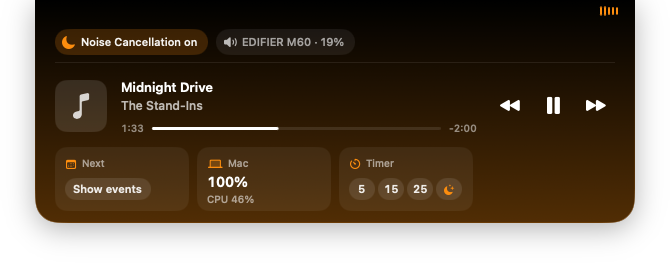
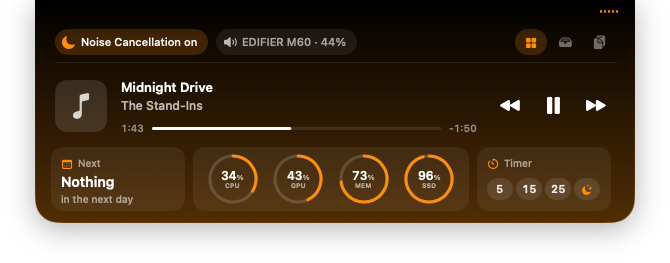
Bring the docs up to date: README privacy, permissions, how it works, file table and hover screenshots; development notes and changelog

diff --git a/NotchANC/Glance.swift b/NotchANC/Glance.swift
@@ -1,5 +1,5 @@
-// What the card's tiles show: the headphones' battery, the next calendar event, and how busy the Mac is
-// (processor, graphics, memory, disk). Read only while a pill is open.
+// What the card reads from the system: the headphones' battery for the output chip, and for the tiles the next
+// calendar event and how busy the Mac is (processor, graphics, memory, disk). Read only while a pill is open.
 
 import EventKit
 import Foundation

diff --git a/README.md b/README.md
@@ -6,7 +6,7 @@
 
 <p align="center">
   See at a glance when your AirPods are blocking out the world.<br>
-  A small pill around your MacBook's notch or Dynamic Island, plus what's playing.
+  A small pill around your MacBook's notch or Dynamic Island, with what's playing and a card of things worth a glance.
 </p>
 
 <p align="center">
@@ -24,10 +24,10 @@ When your AirPods switch to **Noise Cancellation**, a black pill appears around 
   <img src="docs/images/notch-collapsed.png" width="324" alt="The collapsed pill beside the notch: the playing app's icon on the left, the visualizer on the right">
 </p>
 
-Hover it and it opens into one card. On top, the listening mode and where sound is going. Then the player: the playing app's icon, the title and artist, a progress bar, and previous, play/pause and next. Under it, tiles worth a glance: your next event, how busy the Mac is, a quick timer. The pill's icons travel into the card, so the two read as one piece.
+Hover it and it opens into one card. On top, the listening mode and where sound is going. Then the player: the playing app's icon, the title and artist, a progress bar, and previous, play/pause and next. Under it, tiles worth a glance: your next event, how busy the Mac is, a quick timer. Tabs on the right switch to a shelf for files and to your recent copies. The pill's icons travel into the card, so the two read as one piece.
 
 <p align="center">
-  <img src="docs/images/notch-hover.png" width="671" alt="The hovered pill: Noise Cancellation on and the output device, the player showing Midnight Drive, and tiles for the next event, the Mac and a timer">
+  <img src="docs/images/notch-hover.png" width="671" alt="The hovered pill: Noise Cancellation on, the output device and three tabs; the player showing Midnight Drive; tiles for the next event, four rings for the Mac, and a timer">
 </p>
 
 On displays without a notch, such as an external monitor, the pill sits centred in the menu bar with the track's name, as wide as it needs. Hovering opens the same card.
@@ -35,12 +35,12 @@ On displays without a notch, such as an external monitor, the pill sits centred 
 <p align="center">
   <img src="docs/images/display-anc.png" width="271" alt="Pill on an external display showing Midnight Drive — The Stand-Ins">
   <br>
-  <img src="docs/images/display-hover.png" width="670" alt="The same pill while hovered: the card with status, player and tiles">
+  <img src="docs/images/display-hover.png" width="670" alt="The same pill while hovered: the card with status, tabs, player and tiles">
 </p>
 
 ### Features
 
-- **Automatic.** NotchANC follows your AirPods' listening mode with no setup and nothing to pair.
+- **Automatic.** NotchANC follows your AirPods' listening mode with no setup and nothing to pair. The card names the mode you're in: Noise Cancellation, Transparency or Adaptive.
 - **Now Playing.** Shows the track from any app: music, videos in a browser, podcasts. Hover to open a card with the status (Noise Cancellation, where sound is going) and the player: pause, skip or go back. The status row also shows your headphones' battery. Tiles under the player show your next calendar event and how busy the Mac is (processor, graphics, memory, disk), and start a quick timer or a focus session. Two more tabs hold a shelf for files you drag onto the pill and the last things you copied. Click the track to jump to the app, or the browser tab, that's playing it.
 - **A live visualizer.** The bars beside the notch move with the sound that's playing.
 - **Media without ANC.** With Noise Cancellation off, the pill takes the Now Playing colour and shows the playing app's icon while audio plays through headphones (AirPods, any Bluetooth headset, or the headphone jack). In Settings › Pill, choose instead to show it for sound from any output, to keep it always visible, or to never show it.
@@ -63,6 +63,7 @@ On displays without a notch, such as an external monitor, the pill sits centred 
 4. Allow **Bluetooth** access when macOS asks. NotchANC uses it only to notice when your headphones disconnect.
 5. Allow **System Audio Recording** when macOS asks. NotchANC uses it only to move the visualizer while something plays. The sound stays on your Mac and is never recorded.
 6. The first time you click a track playing in a browser, allow NotchANC to control that browser. It only switches to the playing tab.
+7. To see your next event in the card, press **Show events** on its tile and allow **Calendar** access. NotchANC only reads it, and never asks unless you press that button.
 
 The app is signed with a Developer ID and notarized by Apple, so it opens without Gatekeeper warnings. It checks GitHub for updates and installs them from **Check for Updates…**.
 
@@ -75,7 +76,11 @@ macOS has no public API for any of this, so NotchANC combines what the system al
 | Is Noise Cancellation on? | The Bluetooth daemon logs every listening-mode change, for example `LsnM ANC`. NotchANC reads it with Apple's `log` tool: the last 30 minutes at launch, then a live stream. |
 | What's playing? | macOS 15.4 and later only let Apple's own processes read Now Playing. NotchANC asks Apple's `osascript` to read it once a second and report only changes, and to send play/pause, next and previous. Clicking the track asks the browser over AppleScript for the tab whose title holds it. |
 | How loud is it? | A Core Audio process tap hears the Mac's output while the pill shows something playing. NotchANC splits it into five frequency bands for the bars and keeps nothing. |
-| Are headphones in use? | Core Audio reports whether the current output is Bluetooth or the headphone jack, and notifies when that changes. |
+| Where is sound going? | Core Audio reports the current output's name and volume, whether it is Bluetooth or the headphone jack, and notifies when any of that changes. |
+| How charged are the headphones? | No API gives AirPods battery levels, so NotchANC reads them from the Bluetooth section of Apple's `system_profiler` report while the card is open. |
+| How busy is the Mac? | The kernel reports processor and memory use and the startup disk reports its space. Graphics use comes from the figures the graphics driver publishes in the I/O Registry. |
+| What's next on the calendar? | EventKit, for the next timed event in the coming day, once you have allowed it. |
+| What was copied? | The pasteboard has no change notice, so NotchANC checks its counter twice a second and keeps the last ten texts in memory. |
 | Where's the notch or island? | `NSScreen` reports the camera cutout as a top safe-area inset plus the free areas to its left and right. The pill hugs whatever gap they leave, so it fits notches and the Dynamic Island alike. |
 
 The pill is a borderless, non-activating window at menu bar level. It ignores the mouse unless the pointer is on it, so you can still use the menu bar underneath.
@@ -86,7 +91,11 @@ These sources are undocumented and may change with a macOS update. If one stops 
 
 - Everything stays on your Mac. NotchANC has no analytics, no accounts and no servers.
 - Its only network traffic is the update check, which fetches [`appcast.xml`](appcast.xml) from this repository.
-- It reads only the Bluetooth daemon's listening-mode lines from the system log, and the title and artist of what's playing. It stores nothing but your settings.
+- From the system it reads the Bluetooth daemon's listening-mode lines in the log, the title and artist of what's playing, your headphones' battery level, how busy the Mac is, and, only if you allow it, your next calendar event.
+- The clipboard history holds the last ten texts you copied, in memory only: it is gone when NotchANC quits, and anything a password manager marks as secret is never kept. Turn it off in Settings › Card.
+- The shelf remembers the paths of the files you dropped on it, nothing of their contents.
+- A focus session runs a Shortcut only if you picked one in Settings › Focus.
+- It stores nothing but your settings and the shelf's paths.
 
 ## Scripting
 
@@ -112,10 +121,15 @@ open NotchANC.xcodeproj                                          # or build and 
 | Path | What's in it |
 |---|---|
 | `NotchANC/App.swift` | Menu bar item, menu, and the logic that decides when the pill shows |
-| `NotchANC/Overlay.swift` | Pill layout (unit-tested) and drawing, hover and animation |
+| `NotchANC/Overlay.swift` | Pill layout (unit-tested), the pill and its card, hover and animation |
 | `NotchANC/AirPodsMonitor.swift` | Reads the listening mode from the system log |
 | `NotchANC/NowPlaying.swift` | Reads Now Playing through `osascript` |
-| `NotchANC/AudioOutput.swift` | Watches whether sound goes to headphones |
+| `NotchANC/AudioOutput.swift` | Watches where sound goes: the device, its volume, headphones or not |
+| `NotchANC/AudioTap.swift` | Hears the Mac's output for the visualizer |
+| `NotchANC/Glance.swift` | Reads headphone battery, the next event and how busy the Mac is |
+| `NotchANC/Countdown.swift` | The quick timer and the focus session |
+| `NotchANC/Shelf.swift` | Files parked on the pill |
+| `NotchANC/Clipboard.swift` | The recent copies |
 | `NotchANC/Settings.swift` | The Settings window |
 | `tools/icon.swift` | Draws the app icon |
 | `tools/release.sh` | Builds, signs, notarizes and publishes a release |

diff --git a/docs/development.md b/docs/development.md
@@ -6,15 +6,15 @@ How the parts fit, and the facts that are easy to get wrong. The README covers w
 
 - `NotchANC/App.swift`: menu, Sparkle, and `apply()`, which reacts to every UserDefaults change (keys `automatic`, `mediaVisibility`, `focusMinutes`, `focusStartShortcut`, `focusEndShortcut`, `shelf`, the three timer lengths in `Countdown.presetKeys`, one on/off key per `CardPart` (tiles and tabs), `menuBarIcon`, `hiddenDisplays`, `hideMenuBarIcon`, and per `PillMode` its `colorKey` hex and `iconKey` symbol). Reopening the app shows Settings.
 - `NotchANC/Settings.swift`: the Settings window, a fixed-size `NavigationSplitView`: a sidebar of panes (General, Pill, Card, Focus, About) beside grouped SwiftUI forms that write UserDefaults directly. The card reads the same keys through `@AppStorage`, so a change shows at once.
-- `NotchANC/Overlay.swift`: `PillLayout` (pure geometry, unit-tested) and one window per shown display. The window has the open card's size; only the pill view inside animates. Collapsed, the pill holds the playing app's icon (the state's icon with no track) and the visualizer, or a pause mark; without a cutout the track's text sits between and the bar hugs it. Hovering opens one card: status chips (Noise Cancellation on or off, or the headphones' other mode when the log names it; the output device, its volume and, for headphones, their battery), the player when a track is loaded, and a row of tiles. Three tabs at the right of the chips switch the card between that, the file shelf and the clipboard history; every opening starts on the first. Each tab makes the card only as tall as its content (`Pill.card`), and an empty shelf or clipboard shows a dashed box that says what it is for. The pill is black at the top and washed in the state's colour below. Hover uses mouse-moved event monitors. The window (a non-activating `NSPanel`) ignores clicks except while the pointer is on the pill, so right-click opens the status menu without stealing focus.
+- `NotchANC/Overlay.swift`: `PillLayout` (pure geometry, unit-tested) and one window per shown display. The window has the open card's size; only the pill view inside animates. Collapsed, the pill holds the playing app's icon (the state's icon with no track) and the visualizer, or a pause mark; without a cutout the track's text sits between and the bar hugs it. Hovering opens one card: status chips (Noise Cancellation on or off, or the headphones' other mode when the log names it; the output device, its volume and, for headphones, their battery), the player when a track is loaded, and a row of tiles. Three tabs at the right of the chips switch the card between that, the file shelf and the clipboard history; every opening starts on the first, except that carrying files to the pill opens it on the shelf. Each tab makes the card only as tall as its content (`Pill.card`), and an empty shelf or clipboard shows a dashed box that says what it is for. The pill is black at the top and washed in the state's colour below. Hover uses mouse-moved and drag event monitors. The window (a non-activating `NSPanel`) ignores clicks except while the pointer is on the pill, so right-click opens the status menu without stealing focus.
 - `NotchANC/AudioTap.swift`: the visualizer's levels. A Core Audio process tap of the whole output feeds a private aggregate device; each 1024-sample block is split into five log bands, and each bar rests at half height on its band's running average. It runs only while a shown pill has something playing.
 - `NotchANC/AudioOutput.swift`: the default output device's name, volume and whether it is headphones; the pill's output chip and the "With headphones" choice both read it.
-- `NotchANC/Glance.swift`: the tiles' readings, taken only while a pill is open: headphone battery from `system_profiler SPBluetoothDataType -json` (no public API has it), the next calendar event from EventKit (asked for from the tile's own button, never at launch), and how busy the Mac is, drawn as four rings: processor load and memory from `host_statistics`, graphics load from the graphics driver's `PerformanceStatistics` entry in the I/O Registry (no public API has it), disk from the startup volume's capacity.
+- `NotchANC/Glance.swift`: the card's readings, taken only while a pill is open: headphone battery from `system_profiler SPBluetoothDataType -json` (no public API has it), the next calendar event from EventKit (asked for from the tile's own button, never at launch), and how busy the Mac is, drawn as four rings: processor load and memory from `host_statistics`, graphics load from the graphics driver's `PerformanceStatistics` entry in the I/O Registry (no public API has it), disk from the startup volume's capacity.
 - `NotchANC/Countdown.swift`: the quick timer and the focus session, one countdown at a time, started from the card's Timer tile. While it runs the pill stays up and its right end shows the time left, in place of the visualizer if something is playing; at the end it plays a sound and shows a bell until the card is opened. A focus session also runs the Shortcuts picked in Settings (`/usr/bin/shortcuts run`) when it starts and when it ends, since macOS has no API to switch Focus.
 - `NotchANC/Shelf.swift`: files parked on the pill, kept by path in UserDefaults; the files stay where they are. A drag that carries files opens the pill on the shelf tab (the hover monitors also watch drags), and the pill view takes the drop.
 - `NotchANC/Clipboard.swift`: the last ten texts copied, in memory only. The pasteboard sends no change notice, so its counter is polled twice a second; contents marked concealed, transient or auto-generated (the nspasteboard.org markers password managers set) are never kept.
 - `NotchANC/AirPodsMonitor.swift`: parses `bluetoothd` log lines (`LsnM <mode>` etc.) into a `ListeningMode`; no public API exists. Only Noise Cancellation turns the ANC pill on; the other modes are shown in the chip.
-- `NotchANC/NowPlaying.swift`: MediaRemote refuses non-Apple processes since macOS 15.4, so a JXA loop in Apple's `/usr/bin/osascript` reads `MRNowPlayingRequest` and prints JSON lines. It runs for the app's lifetime: `AppDelegate.updatePill()` picks `PillMode.anc` (accent colour) when ANC is on, else `.media` (blue) when `MediaVisibility` says so: never, while something plays into headphones (the default; `AudioOutput`: Bluetooth transport or the jack's 'hdpn' data source), while something plays into any output, or always. It hides 2 s after playback stops.
+- `NotchANC/NowPlaying.swift`: MediaRemote refuses non-Apple processes since macOS 15.4, so a JXA loop in Apple's `/usr/bin/osascript` reads `MRNowPlayingRequest` and prints JSON lines. It runs for the app's lifetime: `AppDelegate.updatePill()` picks `PillMode.anc` (accent colour) when ANC is on, else `.media` (blue) when `MediaVisibility` says so: never, while something plays into headphones (the default; `AudioOutput`: Bluetooth transport or the jack's 'hdpn' data source), while something plays into any output, or always. A running timer, or one that has rung and not been seen, also keeps the pill up. It hides 2 s after playback stops.
 
 ## Facts that are easy to get wrong
 

diff --git a/CHANGELOG.md b/CHANGELOG.md
@@ -5,7 +5,7 @@
 - **Tiles in the card.** Under the player: the next calendar event with how soon it starts, and four rings for how busy the Mac is: processor, graphics, memory and disk. The calendar is read only after you press Show events.
 - **File shelf.** Drag files onto the pill to park them; open one with a click, drag it back out to use it, or Remove all. The files stay where they are.
 - **Clipboard history.** The last ten texts you copied, in a tab of the card; click one to copy it again, or Clear all. Kept in memory only, and anything a password manager marks as secret is skipped.
-- **Quick timer and focus session.** Start 5, 15 or 25 minutes from the card, or a focus session (25 or 50 minutes, set in Settings › Focus). The pill shows the time left and rings at the end. A focus session can run one of your Shortcuts when it starts and another when it ends, to turn a macOS Focus on and off.
+- **Quick timer and focus session.** Start a timer from the card (5, 15 or 25 minutes, or your own three lengths), or a focus session (25 or 50 minutes, set in Settings › Focus). The pill shows the time left and rings at the end. A focus session can run one of your Shortcuts when it starts and another when it ends, to turn a macOS Focus on and off.
 - **A new Settings window.** A sidebar with General, Pill, Card, Focus and About. Card turns each tile and the shelf and clipboard tabs on or off; Focus sets the timer's three lengths and the focus session.
 - **Choose when the Now Playing pill shows.** Settings › Pill now offers Never, With headphones, With any output and Always. With any output also shows it for the Mac's speakers; Always keeps the pill in place even when nothing plays.
 
